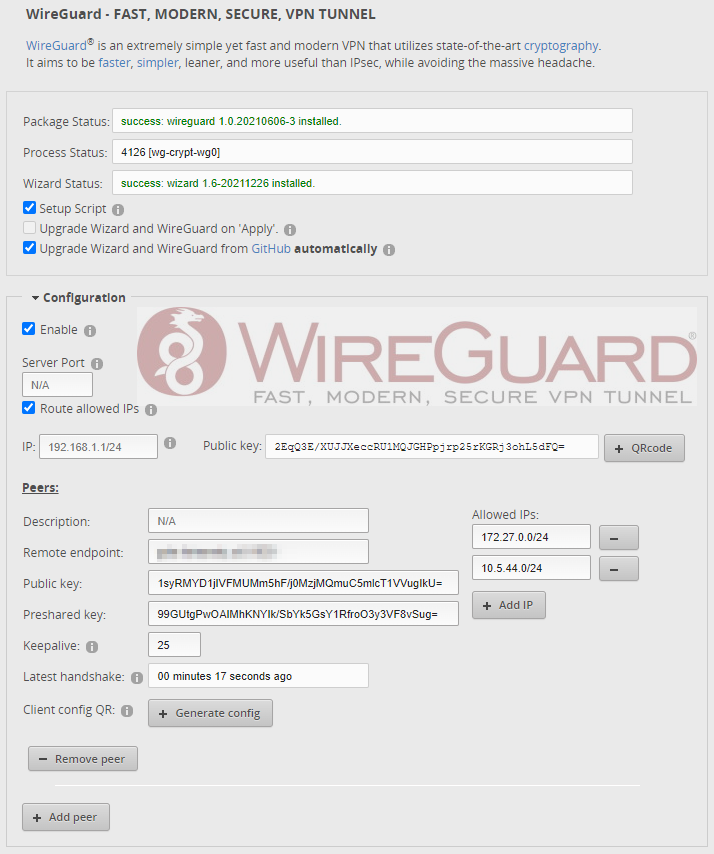
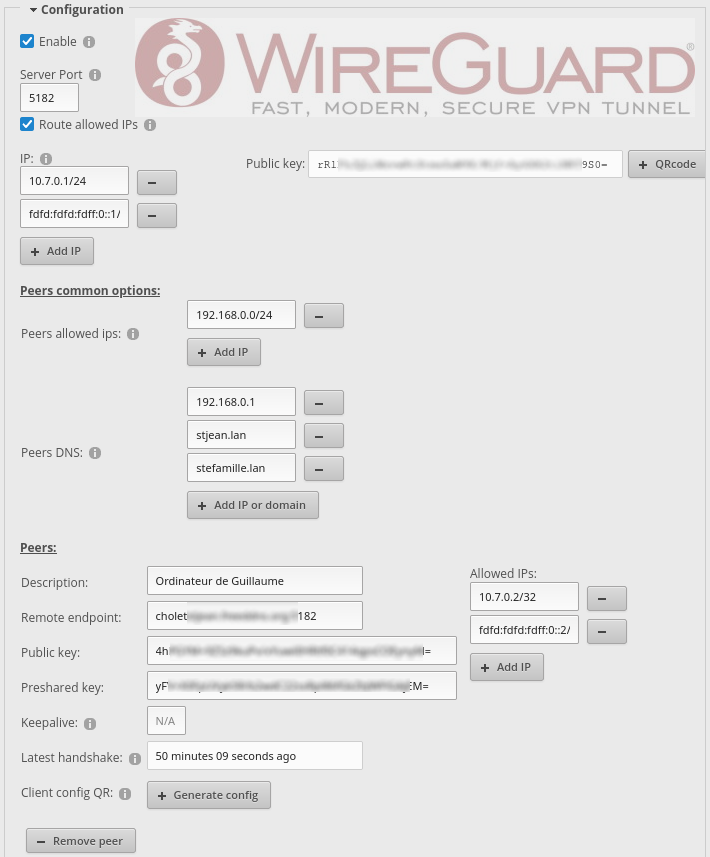
Allow entering DNS and peers allowed ip individually, update screenshot

diff --git a/wizard.html b/wizard.html
@@ -92,7 +92,7 @@ td#allowedips {
     <div><span class="text" data-infotip="WireGuard Server Port - enables listen-port if set. Only required if you want to connect clients to this device.">Server Port</span></div><br>
     <span><input name="listen-port" size="5" placeholder="N/A" title="for example: 51820" /></span><br>
     <div><span><input name="route-allowed-ips" type="checkbox" /></span></div><div><span class="text" data-infotip="Add the allowed IPs for all peers to the routing table. By default this is enabled.">Route allowed IPs</span></div><br><br>
-    <span class="text" data-infotip="Sets IP address on interface wg0 (optional).">IP: </span><br>
+    <div><span class="text" data-infotip="Sets IP address on interface wg0 (optional).">IP: </span><br>
     <div class="addable" data-min="0" data-max="20" data-object="ipaddress" data-objectify="0">
         <div class="addable-container"></div>
         <div class="addable-template" style="padding-top:0px">
@@ -102,6 +102,7 @@ td#allowedips {
             </div>
         </div>
         <button type="button" class="addable-add">Add IP</button>
+    </div>
     </div>
     <div id="publickey">
         <input type="hidden" id="privatekey" name="privatekey" />
@@ -117,9 +118,30 @@ td#allowedips {
     <div class="clear"><br></div>
     <span><b><u>Peers common options:</u></b></span><br>
     <table border=0 width="450px"><tr>
-    <td><div><span class="text" data-infotip="Allowed IP from peers point of view, for QR code (optional).">Peers allowed ips: </span></td><td><input id="peers-allowed-ips" name="peers-allowed-ips" size="13" placeholder="192.168.1.1/24"></div></td>
-    </tr><tr>
-    <td><div><span class="text" data-infotip="DNS from peers point of view, for QR code (optional).">Peers DNS: </span></td><td><input id="peers-dns" name="peers-dns" size="13" placeholder="1.1.1.1"></div></td>
+    <td><div><span class="text" data-infotip="Allowed IPs from peers point of view, for QR code (optional).">Peers allowed ips: </span></td><td>
+        <div class="addable" data-min="0" data-max="20" data-object="peers-allowed-ips" data-objectify="0">
+            <div class="addable-container"></div>
+            <div class="addable-template" style="padding-top:0px">
+                <div class="multi">
+                    <input name="peers-allowed-ips" size="13" placeholder="192.168.1.0/24" title="Peers allowed IPs" />
+                    <button type="button" class="addable-remove"></button>
+                </div>
+            </div>
+            <button type="button" class="addable-add">Add IP</button>
+        </div>
+    </tr><tr><td>&nbsp;</td><td>&nbsp;</td></tr><tr>
+    <td><div><span class="text" data-infotip="DNS or domain search list from peers point of view, for QR code (optional).">Peers DNS: </span></td><td>
+        <div class="addable" data-min="0" data-max="20" data-object="peers-dns" data-objectify="0">
+            <div class="addable-container"></div>
+            <div class="addable-template" style="padding-top:0px">
+                <div class="multi">
+                    <input name="peers-dns" size="13" placeholder="192.168.1.1" title="DNS or domain search list" />
+                    <button type="button" class="addable-remove"></button>
+                </div>
+            </div>
+            <button type="button" class="addable-add">Add IP or domain</button>
+        </div>
+    </div></td>
     </tr><tr>
     <td><div class="clear"><br></div></td><td><div class="clear"><br></div></td>
     </tr></table>
@@ -245,8 +267,24 @@ async function toggleQRclientconf() {
     var clientprivkey = keypair["privateKey"];
     var clientpubkey = keypair["publicKey"];
     var serverpubkey = document.getElementById('localpubkey').value;
-    var peersallowedips = document.getElementById('peers-allowed-ips').value;
-    var peersdns = document.getElementById('peers-dns').value;
+    //var peersallowedips = document.getElementById('peers-allowed-ips').value;
+    var peersallowedips = "";
+    const pamatches = document.querySelectorAll('[name^="peers-allowed-ips"]');
+    for (const node of pamatches.values()) {
+        if (peersallowedips) {
+            peersallowedips += ',';
+        }
+        peersallowedips += node.value;
+    }
+    //var peersdns = document.getElementById('peers-dns').value;
+    var peersdns = "";
+    const pdmatches = document.querySelectorAll('[name^="peers-dns"]');
+    for (const node of pdmatches.values()) {
+        if (peersdns) {
+            peersdns += ',';
+        }
+        peersdns += node.value;
+    }
     // A revoir par peernumber
     var persistentkeepalive = "";
     var endpoint = "";
